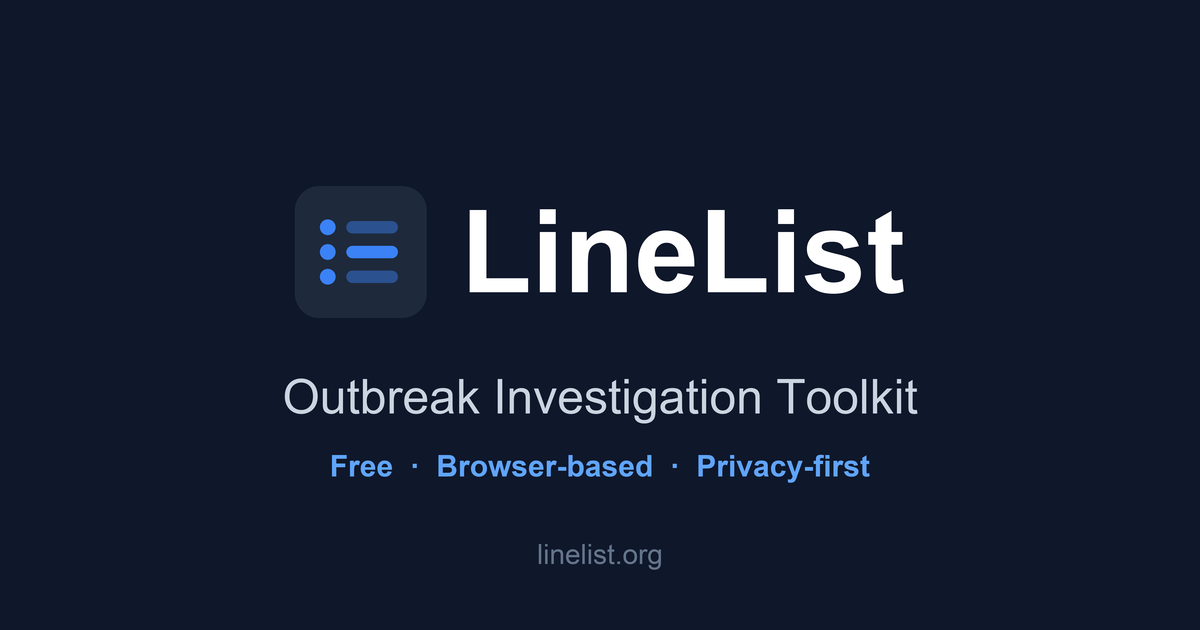
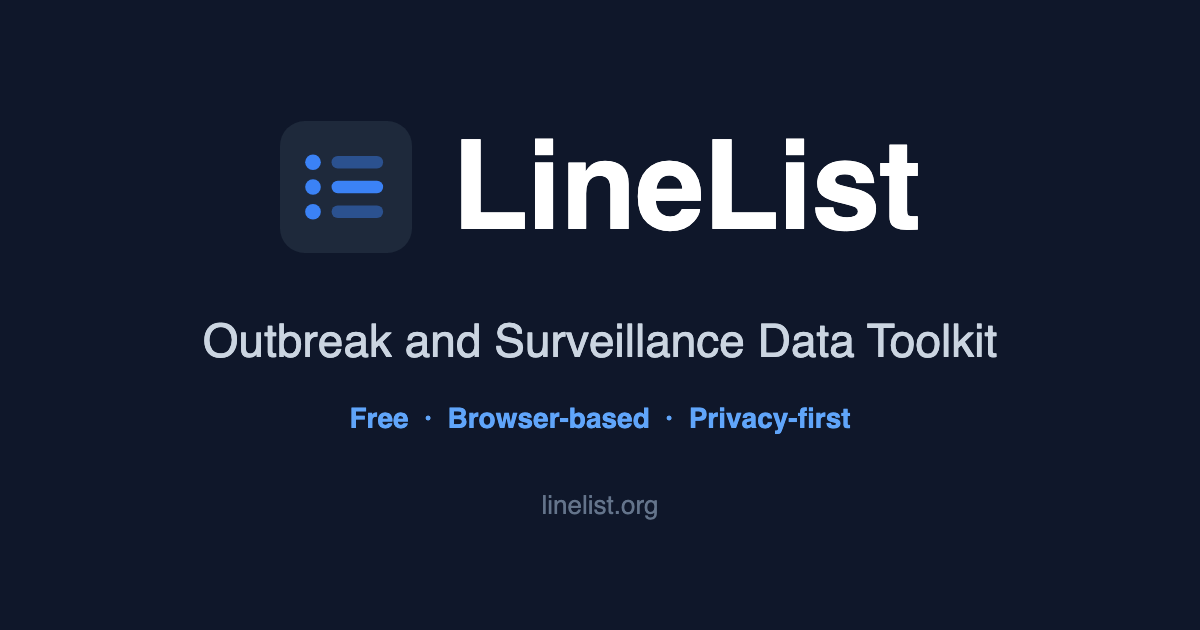
Call this release 1.0.0 and use one title throughout
Help showed version 1.0.0 with a January date while package.json said
0.0.0. Keep the version and release date in one file, set them to 1.0.0 and
October 2026 for the public announcement, and use them in the suggested
citation.

Use "Outbreak and Surveillance Data Toolkit" in the social preview image
and the in-app descriptions, matching the page title.

diff --git a/src/components/HelpCenter.tsx b/src/components/HelpCenter.tsx
@@ -1,6 +1,7 @@
 import React, { useState } from 'react';
 import { useDialog } from '../hooks/useDialog';
 import { FEEDBACK_EMAIL, FEEDBACK_MAILTO, FEEDBACK_PRIVACY_NOTE } from '../utils/contact';
+import { APP_VERSION, RELEASE_DATE } from '../utils/release';
 
 interface HelpCenterProps {
   isOpen: boolean;
@@ -388,7 +389,7 @@ export const HelpCenter: React.FC<HelpCenterProps> = ({
                   <h4 className="text-lg font-semibold text-gray-800 mb-4">About LineList</h4>
                   <div className="space-y-3 text-sm text-gray-700">
                     <p>
-                      LineList is a web application designed for outbreak investigation and epidemiological analysis.
+                      LineList is an outbreak and surveillance data toolkit that runs in your web browser.
                       Built for junior epidemiologists and public health professionals, it provides essential tools for data
                       quality assurance and statistical analysis, all without requiring coding skills.
                     </p>
@@ -406,11 +407,11 @@ export const HelpCenter: React.FC<HelpCenterProps> = ({
                     <div className="grid md:grid-cols-2 gap-4 mt-4">
                       <div className="border border-gray-200 rounded-lg p-4">
                         <h5 className="font-medium text-gray-800 mb-1">Version</h5>
-                        <p className="text-gray-600">1.0.0</p>
+                        <p className="text-gray-600">{APP_VERSION}</p>
                       </div>
                       <div className="border border-gray-200 rounded-lg p-4">
                         <h5 className="font-medium text-gray-800 mb-1">Release Date</h5>
-                        <p className="text-gray-600">January 2026</p>
+                        <p className="text-gray-600">{RELEASE_DATE}</p>
                       </div>
                     </div>
                   </div>
@@ -493,7 +494,7 @@ export const HelpCenter: React.FC<HelpCenterProps> = ({
                     </p>
 
                     <div className="bg-gray-50 border border-gray-300 rounded-lg p-4 font-mono text-xs">
-                      Data analysis was conducted using LineList (version 1.0.0), a web-based epidemiological analysis tool designed for outbreak investigation. Available at: https://linelist.org
+                      Data analysis was conducted using LineList (version {APP_VERSION}), a browser-based outbreak and surveillance data toolkit. Available at: https://linelist.org
                     </div>
                   </div>
                 </section>

diff --git a/src/components/OnboardingWizard.tsx b/src/components/OnboardingWizard.tsx
@@ -130,7 +130,7 @@ export const OnboardingWizard: React.FC<OnboardingWizardProps> = ({
                 </div>
                 <h3 className="text-2xl font-bold text-gray-800 mb-4">Welcome to LineList!</h3>
                 <p className="text-lg text-gray-600 max-w-2xl mx-auto">
-                  Your complete toolkit for outbreak investigation and epidemiological analysis
+                  An outbreak and surveillance data toolkit that runs in your browser
                 </p>
               </div>
 

diff --git a/src/utils/release.ts b/src/utils/release.ts
@@ -1,0 +1,10 @@
+/**
+ * The release shown in Help and in the suggested citation.
+ *
+ * Change both lines, and "version" in package.json, when publishing a
+ * release that people might cite: a new analysis, a changed calculation, or
+ * anything else that could make two reports disagree.
+ */
+export const APP_VERSION = '1.0.0';
+
+export const RELEASE_DATE = 'October 2026';
